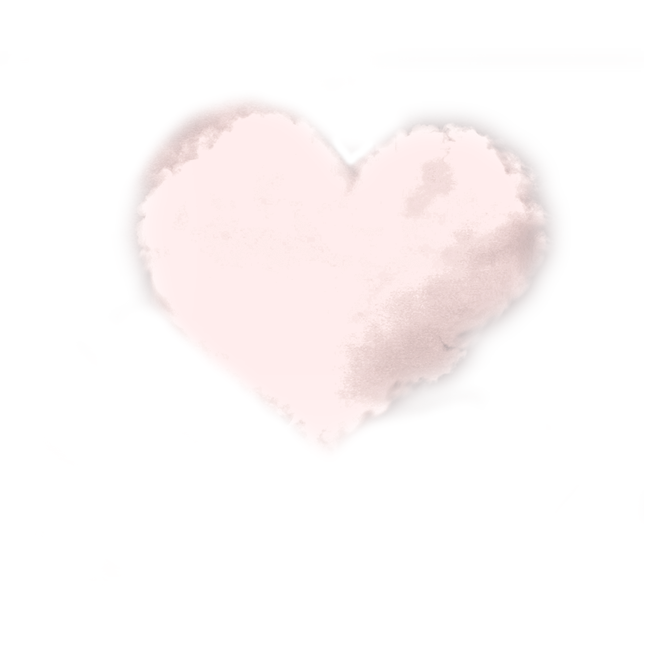
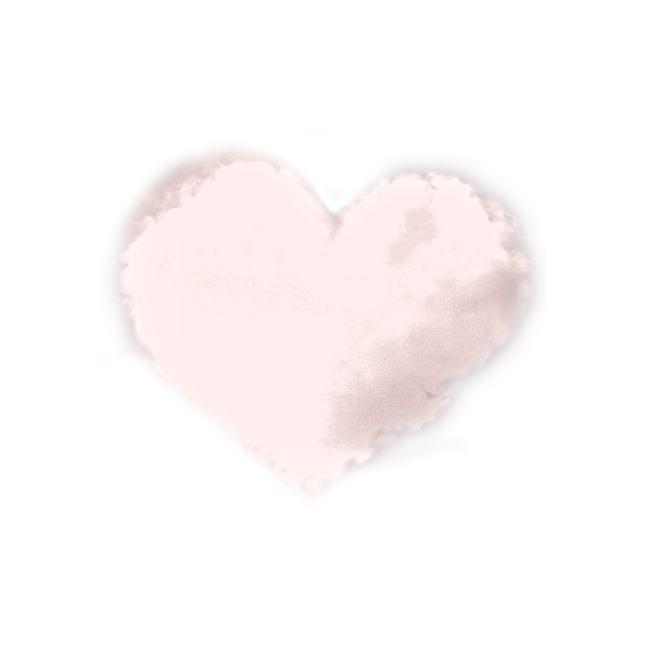
Add files via upload

diff --git a/index.html b/index.html
@@ -6,8 +6,10 @@
     <meta name="viewport" content="width=device-width, initial-scale=1.0">
     <title>LUVVVVVVVVVVVVVVVVV</title>
     <link rel="shortcut icon" href="./img/heart2.png" type="image/x-icon">
+    <link rel="stylesheet" href="https://cdn.jsdelivr.net/npm/swiper@8/swiper-bundle.min.css">
     <link rel="stylesheet" href="css/style.css">
     <script src="js/main.js" defer></script>
+    <script src="https://cdn.jsdelivr.net/npm/swiper@8/swiper-bundle.min.js" ></script>
 </head>
 <body>
 
@@ -28,7 +30,7 @@
     <article class="article">
         <div class="article__content">
             <a href="luv.html">
-                <img class="btn" src="../img/heart2.png" alt="heart">
+                <div class="btn"></div>
             </a>
         </div>
         <!-- /.acticle__content -->

diff --git a/luv.html b/luv.html
@@ -4,12 +4,12 @@
     <meta charset="UTF-8">
     <meta http-equiv="X-UA-Compatible" content="IE=edge">
     <meta name="viewport" content="width=device-width, initial-scale=1.0">
+    <title>LUVVVVVVVVVVVVVVVVV</title>
     <link rel="shortcut icon" href="./img/heart2.png" type="image/x-icon">
     <link rel="stylesheet" href="css/style.css">
     <link rel="stylesheet" href="https://cdn.jsdelivr.net/npm/swiper@8/swiper-bundle.min.css">
     <script src="js/main.js" defer></script>
     <script src="https://cdn.jsdelivr.net/npm/swiper@8/swiper-bundle.min.js" ></script>
-    <title>LUVVVVVVVVVVVVVVVVV</title>
 </head>
 <body>
 

diff --git a/css/style.css b/css/style.css
@@ -29,8 +29,9 @@ body {
 }
 
 .btn {
-  max-width: 400px;
-  width: 100%;
+  width: 400px;
+  height: 400px;
+  background: url(../img/heart2.png) no-repeat center/400px;
 }
 
 .header {
@@ -150,6 +151,7 @@ body {
     width: 100%;
   }
   .btn {
-    max-width: 300px;
+    width: 300px;
+    height: 300px;
   }
 }/*# sourceMappingURL=style.css.map */

diff --git a/css/_setting.sass b/css/_setting.sass
@@ -27,8 +27,9 @@ body
         background: #ebd6ea url(../img/2.png) no-repeat center / cover
 
 .btn 
-    max-width: 400px
-    width: 100%
+    width: 400px
+    height: 400px
+    background: url(../img/heart2.png) no-repeat center / 400px
 
 .header 
     position: relative

diff --git a/css/_media.sass b/css/_media.sass
@@ -5,4 +5,5 @@
         max-width: 310px !important
         width: 100%
     .btn
-        max-width: 300px     
+        width: 300px 
+        height: 300px    
